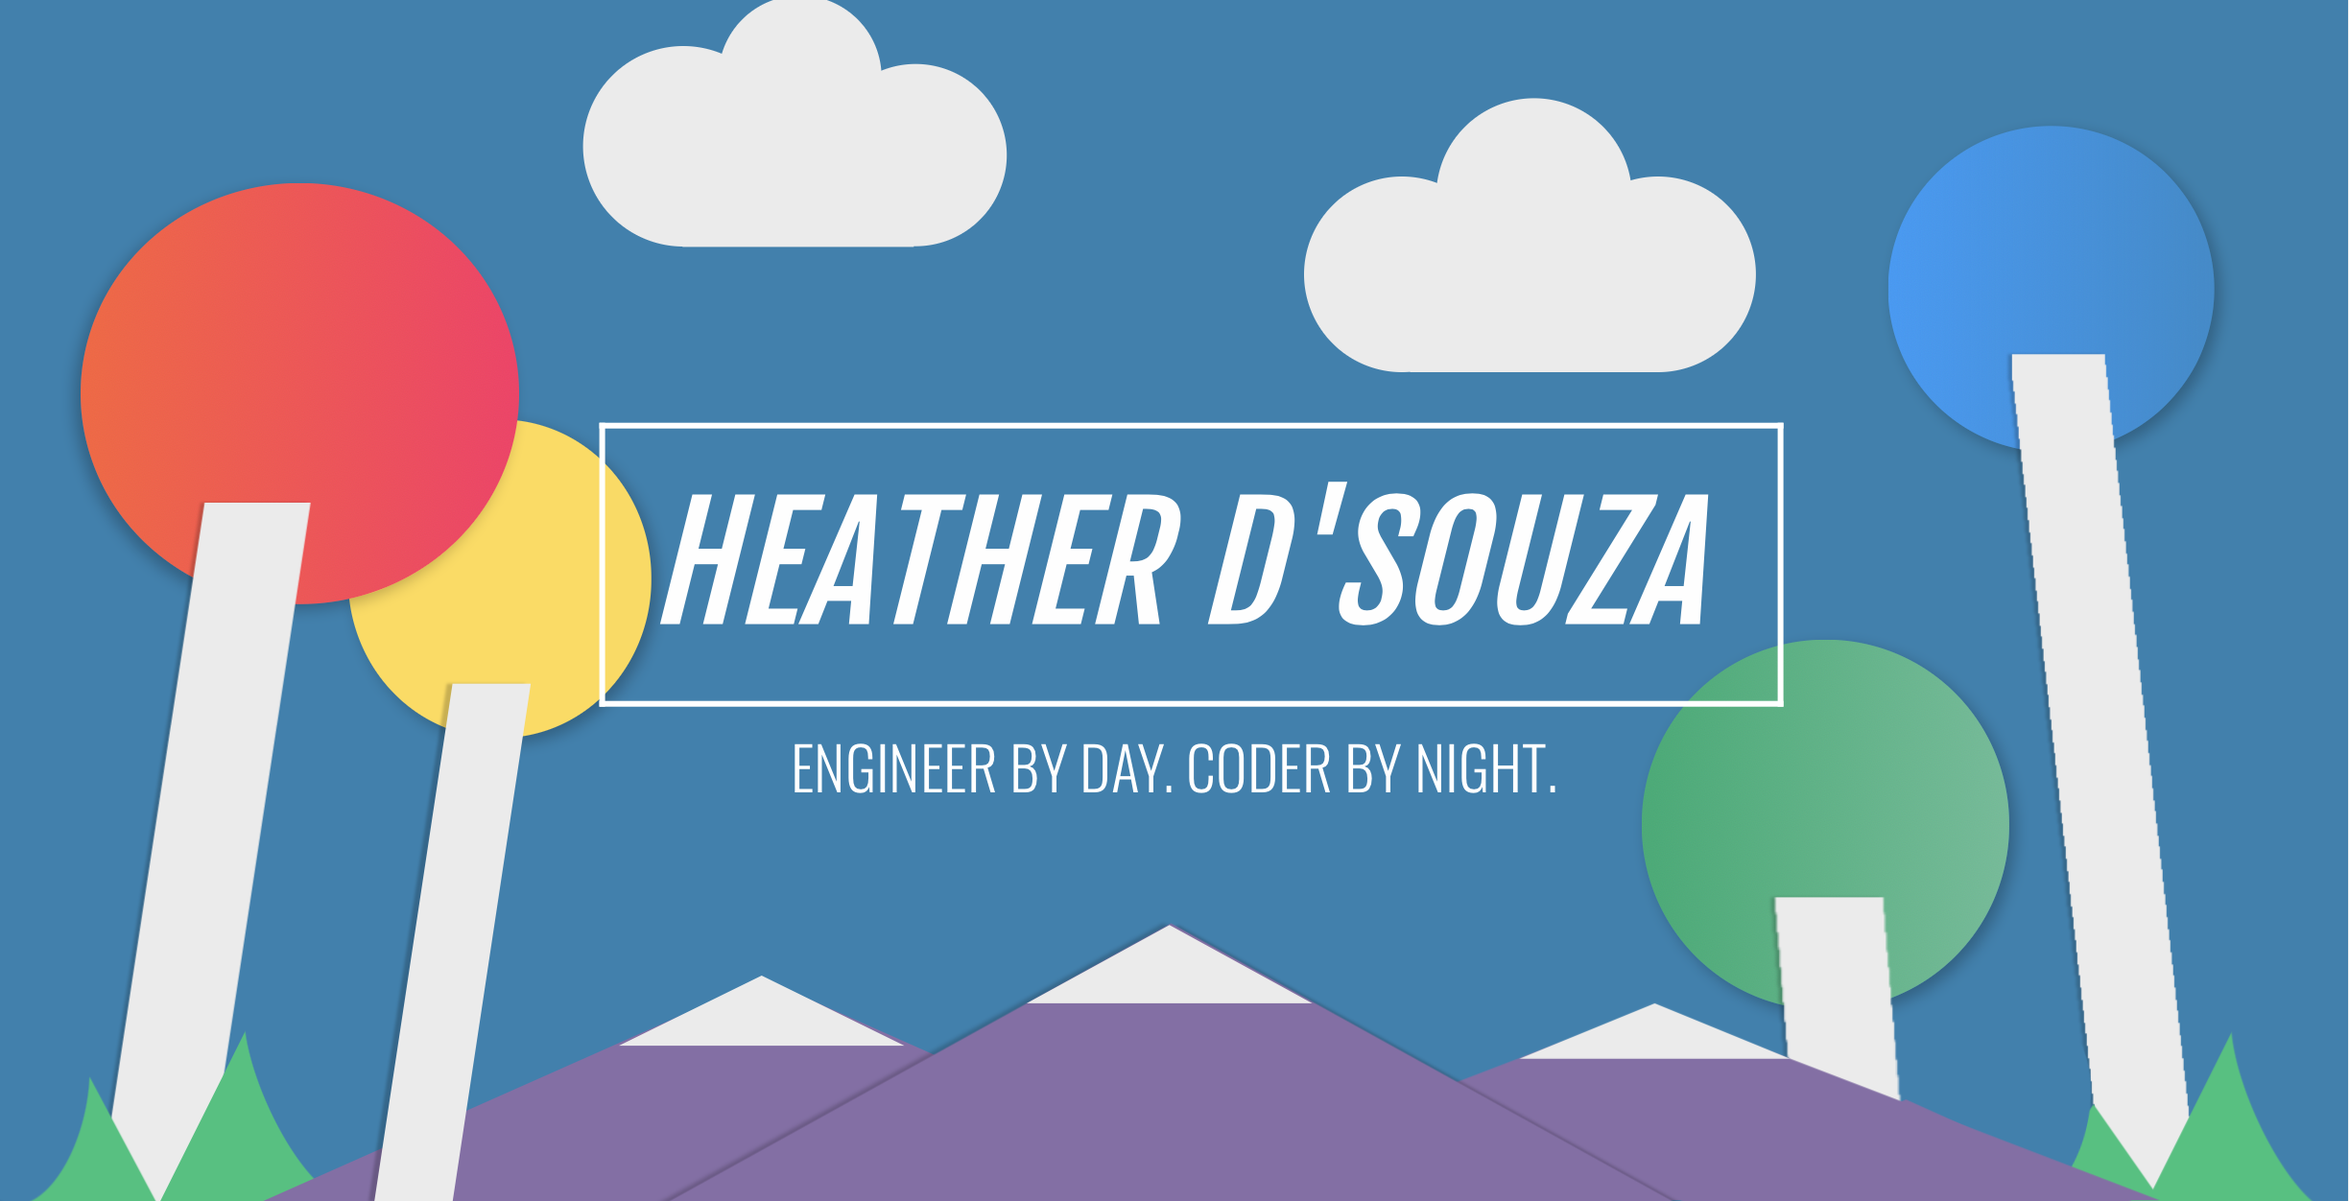
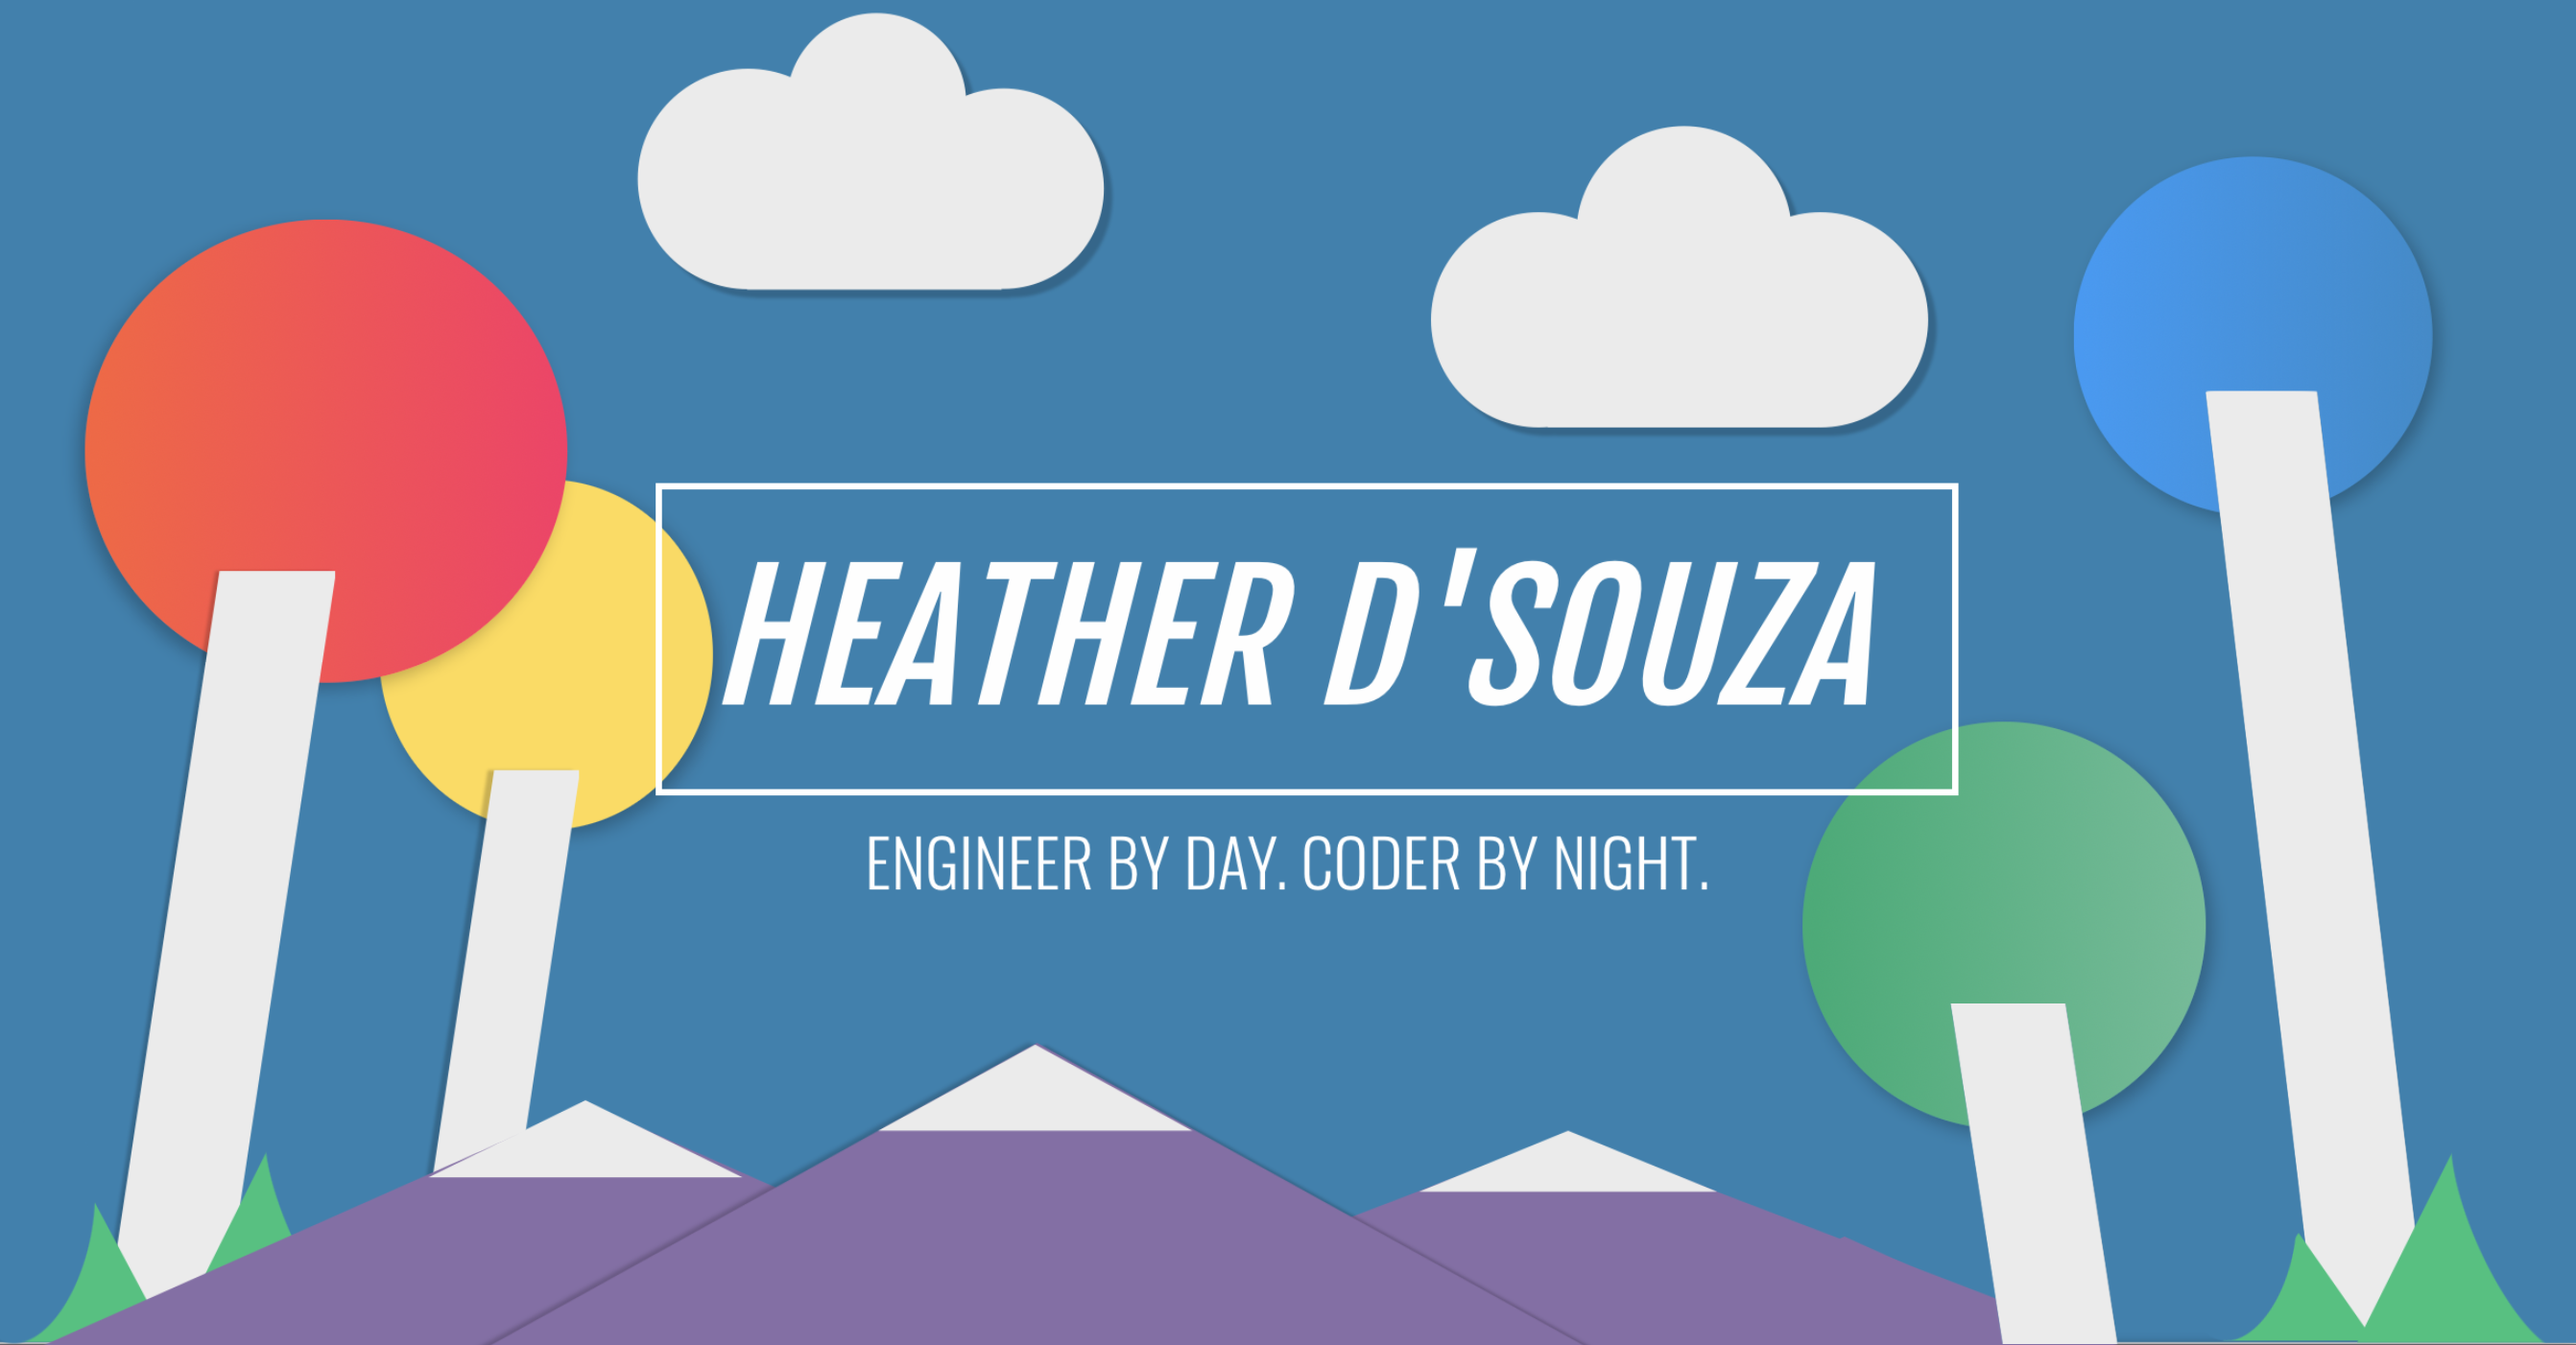
Add homepage image

diff --git a/index.html b/index.html
@@ -65,7 +65,8 @@
 
     <!-- homepage -->
     <span id="homepage-anchor" class="anchor" style="position: relative; top:0px"></span>
-    <section style="height:500px; background-color: black;">
+    <section>
+      <img src="images/homepage.png">
     </section>
 
     <!-- about -->
